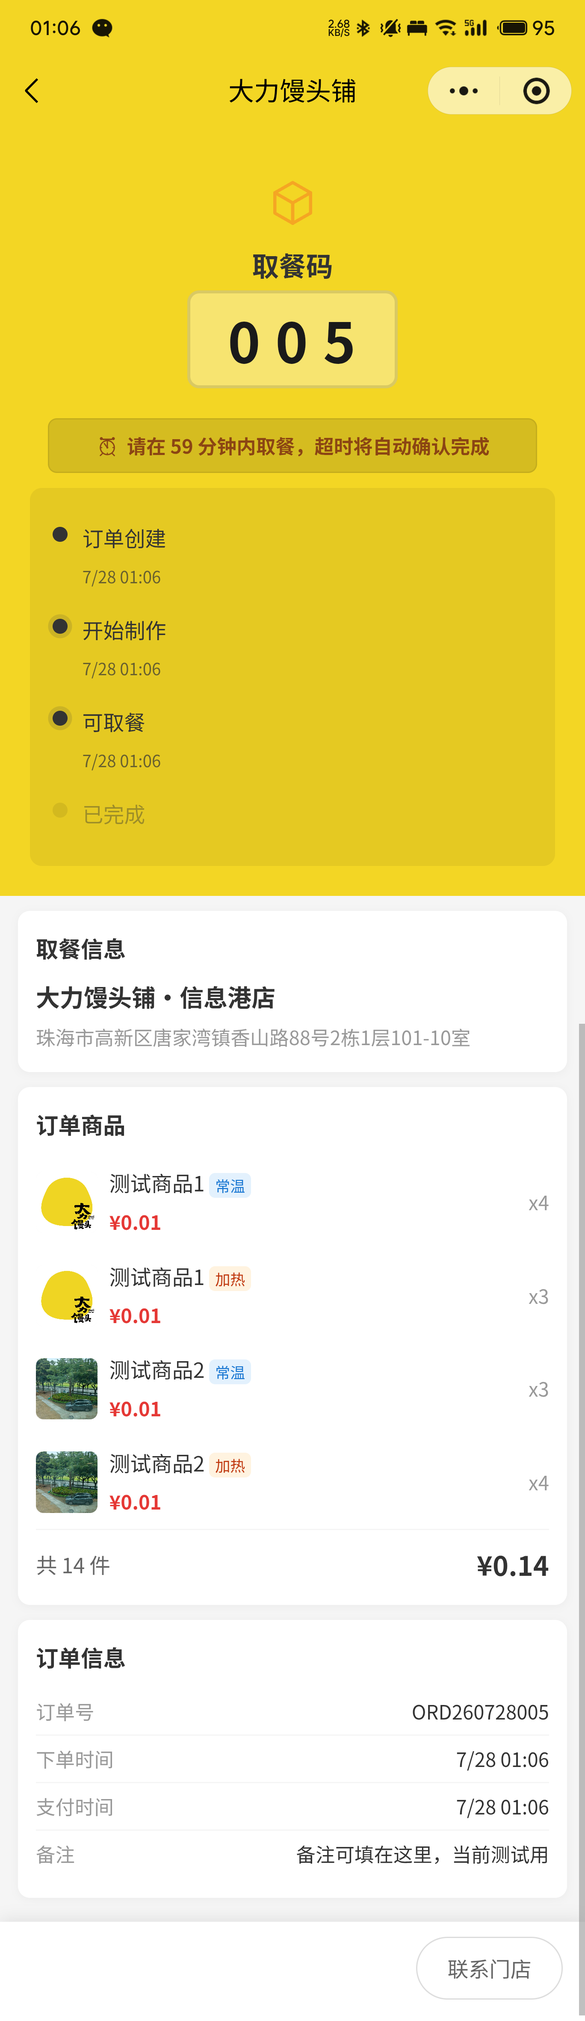
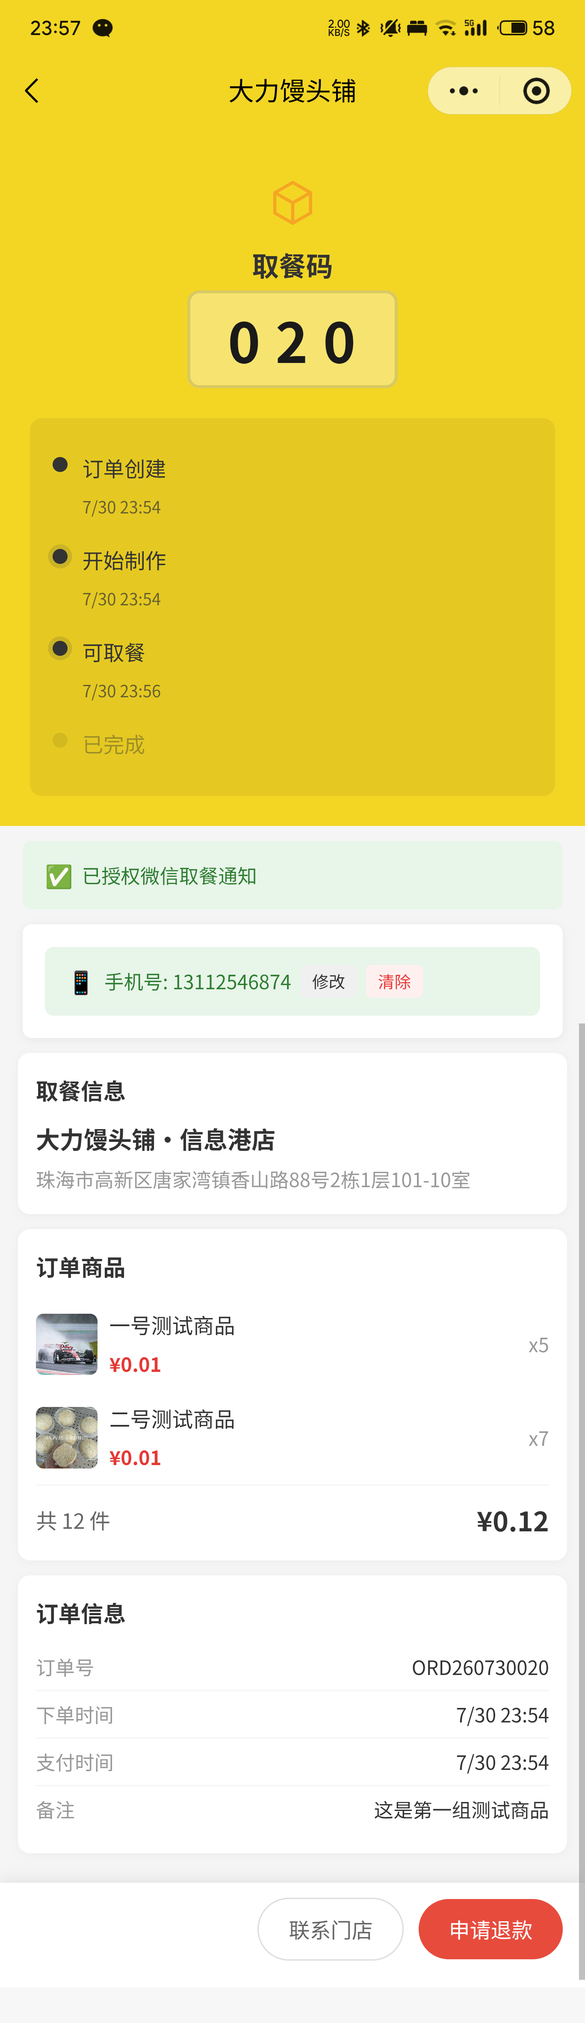
docs: README全面重写

diff --git a/README.md b/README.md
@@ -1,6 +1,7 @@
-# 大力馒头铺 — 扫码点单小程序
+# 大力馒头铺 — 预定取餐小程序
 
-> 覆盖完整的点单-支付-取餐流程，为珠海「大力馒头铺·信息港店」开发，已在门店实际使用。
+> 覆盖完整的预定-支付-通知-取餐全链路，为珠海「大力馒头铺·信息港店」开发，已在门店实际使用。
+> 顾客下单支付后授权微信订阅通知或预留手机号，商家制作完成时自动推送取餐提醒——顾客无需盯着进度，等通知到店即可。
 
 [![MiniProgram](https://img.shields.io/badge/前端-微信小程序原生-07c160)](https://developers.weixin.qq.com/miniprogram/dev/framework/)
 [![Backend](https://img.shields.io/badge/后端-Node.js_Express-339933)](https://expressjs.com/)
@@ -24,20 +25,33 @@
 
 ## 快速了解
 
-顾客扫描线下小程序码或搜索小程序进入，选商品加入购物车，微信支付下单，之后可以在订单详情页实时看到制作进度——从"制作中"到"可取餐"状态会随商家操作同步更新。
+顾客扫码进入小程序、选商品加购后，进入订单确认页（可填写备注），微信支付下单。支付成功后跳转到通知授权页，引导顾客授权微信订阅消息或预留手机号——之后即可在订单详情页追踪制作进度。
 
-同一时间，商家手机会震动并播放提示音，提醒有新订单进来。商家做完后标记"可取餐"，顾客端立即收到通知。
+同一时间，商家端 10 秒轮询检测新订单，手机震动 + 播放提示音（静音模式下也会响），顶部弹出「N 笔新订单」横幅。商家在制作清单中按商品聚合查看所有待制作订单，制作完成后标记「可取餐」，系统**异步推送微信服务通知**给顾客（含取餐码、商品名、门店电话）。顾客凭取餐码到店取餐，订单完成。
 
 ```mermaid
 flowchart LR
     A[顾客扫码] -->|选商品加购| B[下单支付]
-    B -->|wx.requestPayment| C[微信支付]
-    C -->|支付成功| D[追踪进度]
+    B -->|wx.requestPayment| C[支付成功]
+    C -->|跳转授权页| D[授权微信通知<br/>或预留手机号]
+    D -->|进入订单详情| E[5 秒轮询追踪进度]
 
-    C -.->|新订单通知| F[商家收到提醒]
-    F -->|接单制作| G[标记可取餐]
-    G -->|顾客收到通知| H[取餐完成]
+    B -.->|10 秒轮询检测| F[商家震动+提示音]
+    F -->|制作清单聚合| G[按商品批量制作]
+    G -->|标记可取餐| H[异步推送微信通知<br/>取餐码 + 门店电话]
+    H -->|顾客收到通知| I[到店取餐完成]
 ```
+
+### 项目规模
+
+| 指标 | 数值 |
+|------|------|
+| 前端页面 | 11 个 |
+| 后端路由模块 | 6 个 |
+| 后端服务模块 | 2 个（支付 + 订阅通知） |
+| 数据库表 | 5 张 |
+| 商家端功能 Tab | 5 个 |
+| 订单状态筛选 | 7 种 |
 
 ---
 
@@ -52,20 +66,23 @@ flowchart LR
 | **购物车** | 页面级状态管理，切分类不丢数据，结算后自动清空 |
 | **商品详情** | 轮播图 + 完整描述 + 月销量，支持从详情页直接加购 |
 | **下单支付** | 订单确认后服务端按数据库真实价格重算总额，杜绝前端篡改；通过微信支付完成付款 |
-| **订单追踪** | 4 步时间线（创建 → 制作 → 可取餐 → 完成），页面每 5 秒自动刷新状态 |
-| **退款申请** | 已支付订单支持提交退款申请，商家审核批准后原路退回 |
+| **订单追踪** | 4 步时间线（创建 → 制作 → 可取餐 → 完成），页面每 5 秒自动刷新状态，完成/退款后停止轮询 |
+| **取餐通知** | 支付成功后跳转授权页，引导顾客授权微信订阅消息；订单详情页持续提醒授权。商家标记可取餐时自动推送通知（含取餐码） |
+| **手机号收集** | 授权页及订单详情页均可输入/修改/清除手机号，后端 `^1[3-9]\d{9}$` 正则校验，商家端可见 |
+| **退款申请** | 已支付订单（preparing / ready / completed）支持提交退款申请，商家审核批准后原路退回 |
 | **个人中心** | DiceBear 自动头像 + "大力馒头宝001~999"顺序编号昵称 + 积分 |
 
 ### 商家端
 
 | 功能 | 说明 |
 |------|------|
-| **实时订单提醒** | 新订单到达时手机震动 + 提示音（静音模式下也会响），顶部弹出"N 笔新订单"横幅 |
-| **订单管理** | 状态筛选（全部/退款审核/制作中/待取餐/已完成/待支付/已退款），支持分页加载 |
-| **退款审核** | 查看退款理由，批准 → 微信原路退款 + 回库存 + 退积分，拒绝 → 恢复原状态 |
+| **实时订单提醒** | 每 10 秒轮询检测新订单，新订单到达时手机震动 + 提示音（`obeyMuteSwitch: false` 静音模式下也会响），顶部弹出「N 笔新订单」横幅 |
+| **订单管理** | 7 种状态筛选（全部/退款审核/制作中/待取餐/已完成/待支付/已退款），支持分页加载，显示顾客昵称、手机号、备注 |
+| **制作清单** | 待制作订单按**商品聚合**，按今日/昨日/前天/更早分组，显示每款商品需做份数及涉及顾客数——后厨直接照单制作 |
+| **退款审核** | 查看退款理由 + 来源状态（制作中→红色标签，已完成→灰色标签），批准→微信原路退款+回库存+退积分，拒绝→恢复原状态 |
 | **商品管理** | 新增/编辑/上下架/删除，支持封面图及多图轮播上传至微信云存储，可调整排序 |
 | **快速录单** | 线下现金收款专用，选好商品确认后自动生成 OFF 前缀订单号，直接完成并扣库存 |
-| **营收看板** | 今日营收、订单总数、各状态分布，退款审核/制作中角标跨天常亮提醒 |
+| **营收看板** | 支持日/月/年三种维度切换、日期选择器回溯历史数据；今日营收、当月汇总、当年汇总、商品销量排行、订单明细；角标跨天常亮 |
 | **门店开关** | 一键打烊，顾客端立刻显示"已打烊"提示并拦住新下单 |
 
 ### 鉴权机制
@@ -78,39 +95,70 @@ flowchart LR
 
 ---
 
+## 取餐通知系统
+
+商家标记「可取餐」时，后端异步调用微信订阅消息 API，向顾客推送一条服务通知。通知内容包含取餐码、商品名、下单时间、门店电话——顾客凭通知即可到店取餐，无需一直盯着订单详情页刷新。
+
+```
+商家标记 ready → admin.js POST /ready
+  ├─ 更新订单状态 + ready_at（同步，核心操作）
+  └─ sendSubscribeMessage()（异步，失败不影响 ready）
+       ├─ getAccessToken() → 内存缓存，提前 5 分钟自动刷新
+       ├─ POST /cgi-bin/message/subscribe/send
+       │   模板字段：date3(点餐时间) / thing6(商品名) / thing7(温馨提醒)
+       │             phone_number32(联系电话) / character_string12(取餐编号)
+       └─ 43101（用户未授权/配额用完）→ 返回 {success:false} 不抛异常
+```
+
+**关键设计决策：**
+
+- **两处授权入口**：支付成功后跳转 `notify-auth` 页做**首次强引导**（顾客刚付完钱、注意力还在小程序里）；订单详情页中持续展示授权按钮作为**兜底**（万一首次跳过，后面还能再授权）
+- **手机号兜底**：顾客未授权微信通知时，可预留手机号让商家电话联系——授权页和订单详情页均可管理
+- **异步非阻塞**：通知发送失败（网络波动、用户未授权、access_token 过期）不阻塞订单状态更新，用 `.catch()` 静默吞错
+
+---
+
 ## 界面预览
 
-### 顾客端
+### 顾客端 — 浏览与点单
 
-| 首页 | 点单 | 门店选择 | 商品详情 | 支付 | 个人中心 |
+| 首页 | 点单 | 门店选择 | 商品详情 | 个人中心 |
+|:---:|:---:|:---:|:---:|:---:|
+| <a href="./screenshots/01-首页.png" target="_blank"><img src="./screenshots/01-首页.png" width="130"></a> | <a href="./screenshots/02-点单页-全部.png" target="_blank"><img src="./screenshots/02-点单页-全部.png" width="130"></a> | <a href="./screenshots/05-门店列表页.jpg" target="_blank"><img src="./screenshots/05-门店列表页.jpg" width="130"></a> | <a href="./screenshots/06-商品详情页.png" target="_blank"><img src="./screenshots/06-商品详情页.png" width="130"></a> | <a href="./screenshots/04-我的.png" target="_blank"><img src="./screenshots/04-我的.png" width="130"></a> |
+
+*首页展示门店入口和活动区，点单页按分类筛选商品并加入购物车。点击小图可查看原始截图。*
+
+### 顾客端 — 下单与取餐
+
+| 确认支付 | 通知授权 | 制作中 | 待取餐 | 已完成 |
+|:---:|:---:|:---:|:---:|:---:|
+| <a href="./screenshots/07-支付页.png" target="_blank"><img src="./screenshots/07-支付页.png" width="100"></a> | <a href="./screenshots/14-通知授权页.png" target="_blank"><img src="./screenshots/14-通知授权页.png" width="100"></a> | <a href="./screenshots/08-订单详情-制作中.png" target="_blank"><img src="./screenshots/08-订单详情-制作中.png" width="100"></a> | <a href="./screenshots/08-订单详情-待取餐.png" target="_blank"><img src="./screenshots/08-订单详情-待取餐.png" width="100"></a> | <a href="./screenshots/08-订单详情-已完成.png" target="_blank"><img src="./screenshots/08-订单详情-已完成.png" width="100"></a> |
+
+*完整取餐流程：确认订单 → 微信支付 → 跳转通知授权页引导顾客授权订阅消息/留手机号 → 进入订单详情页追踪进度。制作中/待取餐页面展示取餐码和通知授权入口，商家标记可取餐后推送微信通知，取餐完成时间线全亮。*
+
+### 顾客端 — 更多视图
+
+| 售罄分类 | 订单列表-全部 | 订单列表-制作中 | 订单列表-待取餐 | 订单列表-待支付 | 订单列表-已完成 |
 |:---:|:---:|:---:|:---:|:---:|:---:|
-| <a href="./screenshots/01-首页.png" target="_blank"><img src="./screenshots/01-首页.png" width="130"></a> | <a href="./screenshots/02-点单页-全部.png" target="_blank"><img src="./screenshots/02-点单页-全部.png" width="130"></a> | <a href="./screenshots/05-门店列表页.jpg" target="_blank"><img src="./screenshots/05-门店列表页.jpg" width="130"></a> | <a href="./screenshots/06-商品详情页.png" target="_blank"><img src="./screenshots/06-商品详情页.png" width="130"></a> | <a href="./screenshots/07-支付页.png" target="_blank"><img src="./screenshots/07-支付页.png" width="130"></a> | <a href="./screenshots/04-我的.png" target="_blank"><img src="./screenshots/04-我的.png" width="130"></a> |
+| <a href="./screenshots/02-点单页-无库存.png" target="_blank"><img src="./screenshots/02-点单页-无库存.png" width="115"></a> | <a href="./screenshots/03-订单页-全部.png" target="_blank"><img src="./screenshots/03-订单页-全部.png" width="115"></a> | <a href="./screenshots/03-订单页-制作中.png" target="_blank"><img src="./screenshots/03-订单页-制作中.png" width="115"></a> | <a href="./screenshots/03-订单页-待取餐.png" target="_blank"><img src="./screenshots/03-订单页-待取餐.png" width="115"></a> | <a href="./screenshots/03-订单页-待支付.png" target="_blank"><img src="./screenshots/03-订单页-待支付.png" width="115"></a> | <a href="./screenshots/03-订单页-已完成.png" target="_blank"><img src="./screenshots/03-订单页-已完成.png" width="115"></a> |
 
-*首页展示门店入口和活动区，点单页按分类筛选商品并加入购物车，支付页确认订单后调起微信支付。点击小图可查看原始截图。*
+*售罄分类自动聚合、订单列表多状态 Tab 切换（制作中/待取餐/待支付/已完成）。*
 
-### 订单追踪（4 步时间线）
+### 商家端 — 运营管理
 
-| 制作中 | 待取餐 | 已完成 |
-|:---:|:---:|:---:|
-| <a href="./screenshots/08-订单详情-制作中.png" target="_blank"><img src="./screenshots/08-订单详情-制作中.png" width="100"></a> | <a href="./screenshots/08-订单详情-待取餐.png" target="_blank"><img src="./screenshots/08-订单详情-待取餐.png" width="100"></a> | <a href="./screenshots/08-订单详情-已完成.png" target="_blank"><img src="./screenshots/08-订单详情-已完成.png" width="100"></a> |
-
-*制作中的订单展示取餐码和实时进度，商家标记可取餐后进入 1 小时倒计时，取餐完成后时间线全部亮起。*
-
-### 商家后台
-
-| 登录页 | 订单管理 | 退款审核 | 商品管理 | 快速录单 | 营收看板 |
-|:---:|:---:|:---:|:---:|:---:|:---:|
-| <a href="./screenshots/09-商家登录页.png" target="_blank"><img src="./screenshots/09-商家登录页.png" width="130"></a> | <a href="./screenshots/10-订单管理.png" target="_blank"><img src="./screenshots/10-订单管理.png" width="130"></a> | <a href="./screenshots/10-订单管理-退款审核.png" target="_blank"><img src="./screenshots/10-订单管理-退款审核.png" width="130"></a> | <a href="./screenshots/11-商品管理.png" target="_blank"><img src="./screenshots/11-商品管理.png" width="130"></a> | <a href="./screenshots/12-快速录单.png" target="_blank"><img src="./screenshots/12-快速录单.png" width="130"></a> | <a href="./screenshots/13-营收看板.png" target="_blank"><img src="./screenshots/13-营收看板.png" width="130"></a> |
-
-*管理后台通过首页"加热方法"卡片连续点击 7 次进入，支持订单实时提醒与退款审核、商品上下架与排序、线下现金快速录单、当日营收数据看板。点击小图可查看原始截图。*
-
-### 更多截图
-
-| 售罄分类 | 订单列表 | 制作中 | 待取餐 | 待支付 | 已完成 | 商品编辑 |
+| 登录 | 订单管理 | 制作清单 | 退款审核 | 商品管理 | 快速录单 | 营收(日) |
 |:---:|:---:|:---:|:---:|:---:|:---:|:---:|
-| <a href="./screenshots/02-点单页-无库存.png" target="_blank"><img src="./screenshots/02-点单页-无库存.png" width="115"></a> | <a href="./screenshots/03-订单页-全部.png" target="_blank"><img src="./screenshots/03-订单页-全部.png" width="115"></a> | <a href="./screenshots/03-订单页-制作中.png" target="_blank"><img src="./screenshots/03-订单页-制作中.png" width="115"></a> | <a href="./screenshots/03-订单页-待取餐.png" target="_blank"><img src="./screenshots/03-订单页-待取餐.png" width="115"></a> | <a href="./screenshots/03-订单页-待支付.png" target="_blank"><img src="./screenshots/03-订单页-待支付.png" width="115"></a> | <a href="./screenshots/03-订单页-已完成.png" target="_blank"><img src="./screenshots/03-订单页-已完成.png" width="115"></a> | <a href="./screenshots/11-商品管理-编辑.png" target="_blank"><img src="./screenshots/11-商品管理-编辑.png" width="115"></a> |
+| <a href="./screenshots/09-商家登录页.png" target="_blank"><img src="./screenshots/09-商家登录页.png" width="110"></a> | <a href="./screenshots/10-订单管理.png" target="_blank"><img src="./screenshots/10-订单管理.png" width="110"></a> | <a href="./screenshots/15-制作清单.png" target="_blank"><img src="./screenshots/15-制作清单.png" width="110"></a> | <a href="./screenshots/10-订单管理-退款审核.png" target="_blank"><img src="./screenshots/10-订单管理-退款审核.png" width="110"></a> | <a href="./screenshots/11-商品管理.png" target="_blank"><img src="./screenshots/11-商品管理.png" width="110"></a> | <a href="./screenshots/12-快速录单.png" target="_blank"><img src="./screenshots/12-快速录单.png" width="110"></a> | <a href="./screenshots/13-营收看板-日视图.png" target="_blank"><img src="./screenshots/13-营收看板-日视图.png" width="110"></a> |
 
-*左起：售罄分类自动聚合、订单列表多状态切换、订单列表各 Tab 筛选结果（制作中/待取餐/待支付/已完成）、商品编辑表单。*
+*管理后台通过首页"加热方法"卡片连续点击 7 次进入，5 个 Tab（订单管理 / 制作清单 / 商品管理 / 快速录单 / 营收看板）。点击小图可查看原始截图。*
+
+### 商家端 — 更多视图
+
+| 订单管理-制作中 | 营收看板-月视图 | 商品编辑 |
+|:---:|:---:|:---:|
+| <a href="./screenshots/10-订单管理-制作中.png" target="_blank"><img src="./screenshots/10-订单管理-制作中.png" width="150"></a> | <a href="./screenshots/13-营收看板-月视图.png" target="_blank"><img src="./screenshots/13-营收看板-月视图.png" width="150"></a> | <a href="./screenshots/11-商品管理-编辑.png" target="_blank"><img src="./screenshots/11-商品管理-编辑.png" width="150"></a> |
+
+*订单管理支持 7 种状态筛选（制作中/待取餐/已完成/待支付/已退款/退款审核）。营收看板支持日/月/年三维切换，月视图展示月度汇总+每日营业额+商品销量排行。*
 
 ---
 
@@ -120,7 +168,7 @@ flowchart LR
 flowchart TB
     subgraph 小程序端["微信小程序 · 原生框架"]
         direction LR
-        CUST["顾客端<br/>4 Tab + 10 页面"] ~~~ ADM["商家端<br/>内嵌管理后台"]
+        CUST["顾客端<br/>4 Tab + 11 页面"] ~~~ ADM["商家端<br/>内嵌管理后台"]
     end
 
     subgraph 通信层["微信云托管私有信道"]
@@ -131,7 +179,8 @@ flowchart TB
         direction LR
         RT["6 路由模块<br/>auth / menu / orders<br/>store / admin / admin-auth"]
         MW["认证中间件<br/>JWT HS256 · 12h<br/>requireUser 身份守卫"]
-        PAY["支付服务<br/>云托管封装微信支付 V2<br/>下单 / 签名 / 退款 / 回调"]
+        PAY["支付服务<br/>云托管封装微信支付 V2<br/>下单 / 查询 / 退款"]
+        NOTIFY["通知服务<br/>微信订阅消息<br/>access_token 缓存"]
     end
 
     subgraph 数据层["数据存储"]
@@ -171,25 +220,19 @@ sequenceDiagram
     后端->>后端: 库存扣减 + 积分累加
     后端-->>前端: status → preparing
 
-    微信支付-->>商家: 新订单提醒
-    商家->>后端: 标记接单（可选）
-    后端-->>前端: accepted_at 写入
+    Note over 商家: 商家端每 10 秒轮询检测新订单（震动+提示音+横幅）
 
     商家->>后端: 标记可取餐
     后端-->>前端: status → ready
 
-    Note over 前端,后端: 顾客端展示 1 小时取餐倒计时
+    Note over 前端,后端: 商家标记可取餐后异步推送微信订阅通知给顾客
 
-    alt 超时自动完成
-        后端->>后端: 定时器触发（ready 超 1h）
-        后端-->>前端: status → completed
-    else 商家手动完成
-        商家->>后端: 标记已取餐
-        后端->>后端: 累加商品销量
-        后端-->>前端: status → completed
-    end
+    商家->>后端: 标记已取餐
+    后端->>后端: 累加商品销量
+    后端-->>前端: status → completed
 
-    Note over 顾客,商家: 退款旁路：preparing/completed → refund_pending → 商家审核 → refunded
+    Note over 顾客,商家: 退款旁路：preparing/ready/completed → refund_pending → 商家审核 → refunded
+    Note over 顾客,商家: 退款通知回调：微信异步通知 → 恢复库存 + 退积分
 ```
 
 **约束规则**：
@@ -197,7 +240,7 @@ sequenceDiagram
 - 价格校验：服务端按数据库真实价格重算总额，与客户端传入值偏差超过 0.01 元则拒绝
 - 库存保护：`BEGIN TRANSACTION` + `SELECT ... FOR UPDATE` 行锁，库存不足回滚整个事务
 - 回调幂等：支付回调中用 `FOR UPDATE` 二次确认订单状态，并发回调只有一个能通过
-- 超时清理：pending 超过 30 分钟自动删除，ready 超过 1 小时自动完成
+- 超时清理：pending 超过 30 分钟自动删除
 
 ---
 
@@ -213,6 +256,10 @@ erDiagram
         VARCHAR nickname "大力馒头宝001~999"
         TEXT avatar "DiceBear头像URL"
         INT points "积分"
+        INT nick_number UK "顺序编号(001~999)"
+        VARCHAR phone "手机号"
+        DATETIME created_at "注册时间"
+        DATETIME updated_at "更新时间"
     }
 
     products {
@@ -221,38 +268,88 @@ erDiagram
         DECIMAL price "单价"
         TEXT image "封面图cloud://URL"
         VARCHAR category "动态分类"
-        INT stock "库存"
+        TEXT description "商品描述"
+        TEXT gallery "多图轮播(JSON数组)"
         INT sales "累计销量"
+        INT stock "库存"
+        INT sort_order "排序权重"
         TINYINT is_available "上下架"
+        DATETIME created_at "创建时间"
     }
 
     stores {
         INT id PK "自增"
         VARCHAR name UK "门店名"
+        VARCHAR address "地址"
+        VARCHAR phone "电话"
+        VARCHAR hours "营业时间"
         DOUBLE latitude "纬度"
         DOUBLE longitude "经度"
+        TINYINT is_open "营业中"
     }
 
     orders {
         VARCHAR id PK "订单ID"
-        VARCHAR order_no UK "ORD前缀+日期+序号"
+        VARCHAR order_no UK "ORD/前缀+日期+序号"
         VARCHAR user_id FK "所属用户"
         INT store_id FK "所属门店"
+        VARCHAR store_name "门店名(冗余)"
         TEXT items "商品JSON"
         DECIMAL total_price "总金额"
         VARCHAR status "状态机"
+        VARCHAR source "来源(customer/offline)"
         INT pickup_code "取餐码"
+        VARCHAR remark "顾客备注"
+        DATETIME pickup_time "预约取餐时间"
         DATETIME created_at "创建时间"
         DATETIME paid_at "支付时间"
         DATETIME ready_at "可取餐时间"
+        DATETIME accepted_at "接单时间"
         DATETIME completed_at "完成时间"
+        VARCHAR refund_id "微信退款单号"
+        DATETIME refunded_at "退款时间"
+        VARCHAR refund_reason "退款理由"
+        DATETIME refund_requested_at "申请退款时间"
+        DATETIME refund_reviewed_at "审核时间"
+        VARCHAR refund_original_status "退款前状态"
+        VARCHAR pay_out_trade_no "微信商户订单号"
     }
 
     users ||--o{ orders : "一个用户可下多笔订单"
     stores ||--o{ orders : "一笔订单属于一个门店"
+
+    settings {
+        VARCHAR kkey PK "键名"
+        TEXT value "值"
+    }
 ```
 
 `database.js` 实现了自动建表 + 冷启动守护：先检查 orders 表是否存在，已存在则跳过建表，避免云托管缩容到 0 后每次冷启动都执行一遍建表 SQL。`seed.js` 提供初始种子数据（1 个门店 + 1 个测试商品）。
+
+---
+
+## 技术实现细节
+
+### settings 通用键值表
+
+`settings` 表采用 `(kkey, value)` 键值结构，同一张表承载了三个独立功能——无需为每种配置单独建表：
+
+```
+settings 表用途：
+  ├─ order_seq_ORD{YYMMDD}    → 线上订单日序号（原子递增 → 订单号 ORD260730001）
+  ├─ order_seq_OFF{YYMMDD}    → 线下录单日序号（原子递增 → 订单号 OFF260730001）
+  └─ category_order           → 分类显示顺序（JSON 数组 → ["面包","蛋糕","饮品"]）
+```
+
+序号生成的原子性通过 MySQL 的 `INSERT ... ON DUPLICATE KEY UPDATE` 保证——一条 SQL 完成"键不存在则插入 seq=1，存在则 seq+1"，无竞态条件。
+
+### 分类动态排序
+
+商品分类不硬编码。商家在管理端通过上移/下移按钮调整分类顺序 → 后端将 JSON 数组写入 `settings.category_order` → 顾客端 `/api/categories` 读取该配置，按配置顺序排列，未配置的分类自动追加到末尾。新增商品只需填写新分类名，无需改代码。
+
+### 前端 `_show` 标记防图片闪烁
+
+点单页切换分类时，不做"按分类重建数组"（会导致 item 的 DOM 节点销毁重建、`<image>` 重新加载、出现短暂白屏闪烁）。改为：所有商品在 `onLoad` 时一次性加载完毕，每个 item 挂一个 `_show` 布尔标记，切换分类时只翻转标记值，用 CSS `display:none` 控制显隐。DOM 节点始终不销毁 → 图片不重载 → 切换零闪烁。
 
 ---
 
@@ -270,10 +367,11 @@ tasty_bakery/
 │   │   ├── index/                # 点单（分类筛选 + 购物车）
 │   │   ├── product-detail/       # 商品详情（轮播图 + 加购）
 │   │   ├── order-confirm/        # 订单确认 + 微信支付
-│   │   ├── order-detail/         # 订单追踪（4 步时间线 + 退款）
+│   │   ├── order-detail/         # 订单追踪（4 步时间线 + 通知授权 + 退款）
 │   │   ├── order-list/           # 订单列表（状态 Tab + 下拉刷新）
+│   │   ├── notify-auth/          # 通知授权页（支付成功后强引导授权+留手机号）
 │   │   ├── logs/                 # 个人中心
-│   │   ├── admin/                # 商家后台（订单/商品/录单/营收 4 个 Tab）
+│   │   ├── admin/                # 商家后台（订单/制作清单/商品/录单/营收 5 个 Tab）
 │   │   └── privacy/              # 隐私政策
 │   └── custom-tab-bar/           # 自定义悬浮 TabBar 组件
 │
@@ -287,12 +385,13 @@ tasty_bakery/
 │   ├── routes/
 │   │   ├── auth.js               # 微信 code2session · 用户 CRUD
 │   │   ├── menu.js               # 商品列表 · 分类提取 · 月销统计
-│   │   ├── orders.js             # 订单创建 · 微信支付 · 状态流转 · 退款
+│   │   ├── orders.js             # 订单创建 · 微信支付 · 状态流转 · 退款 · 退款回调
 │   │   ├── store.js              # 门店列表 · Haversine 距离
-│   │   ├── admin.js              # 管理 API（订单/商品/录单/营收/门店开关）
+│   │   ├── admin.js              # 管理 API（订单/商品/录单/营收/制作清单/门店开关）
 │   │   └── admin-auth.js         # 管理员登录 · 频率限制
 │   └── services/
-│       └── wechat-pay.js         # 云托管微信支付封装
+│       ├── wechat-pay.js         # 云托管微信支付封装（下单/查询/退款）
+│       └── wechat-notify.js      # 微信订阅消息推送（access_token 缓存 + 发送）
 │
 └── README.md
 ```
@@ -359,6 +458,7 @@ node app.js             # 启动 Express（默认 80 端口）
 - 状态机白名单：仅允许 `pending → preparing → ready → completed`，禁止跳过或回退
 - 用户隐私：`customerResponse()` 返回的字段不含 openid，日志中 openid 使用 SHA256 截断
 - 退款审核：用户提交申请 → 商家审核 → 批准才执行原路退款，拒绝则恢复订单原状态
+- 退款回调幂等：微信退款结果通知独立端点处理，已退款订单跳过，事务内恢复库存 + 退积分
 
 ---
 
